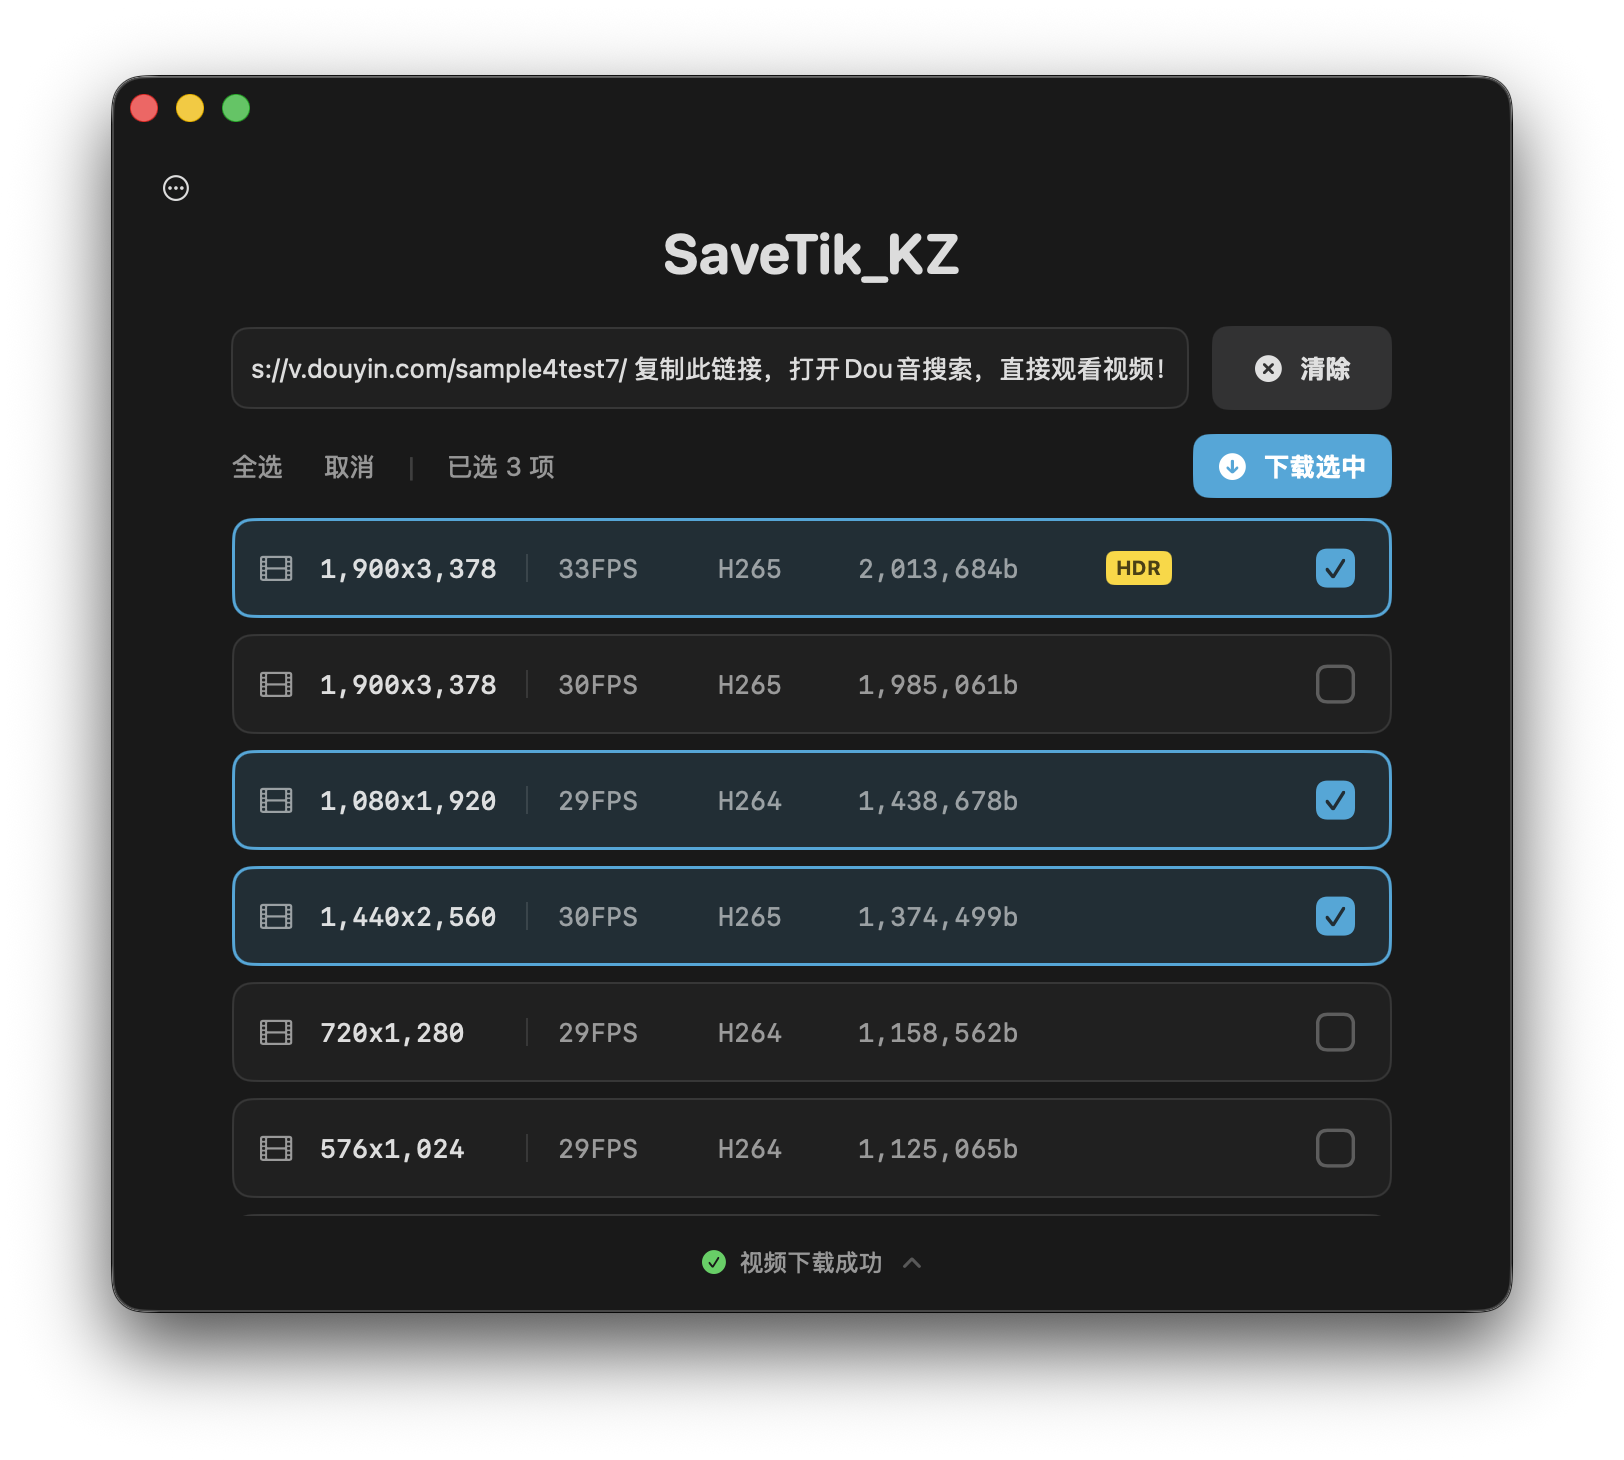
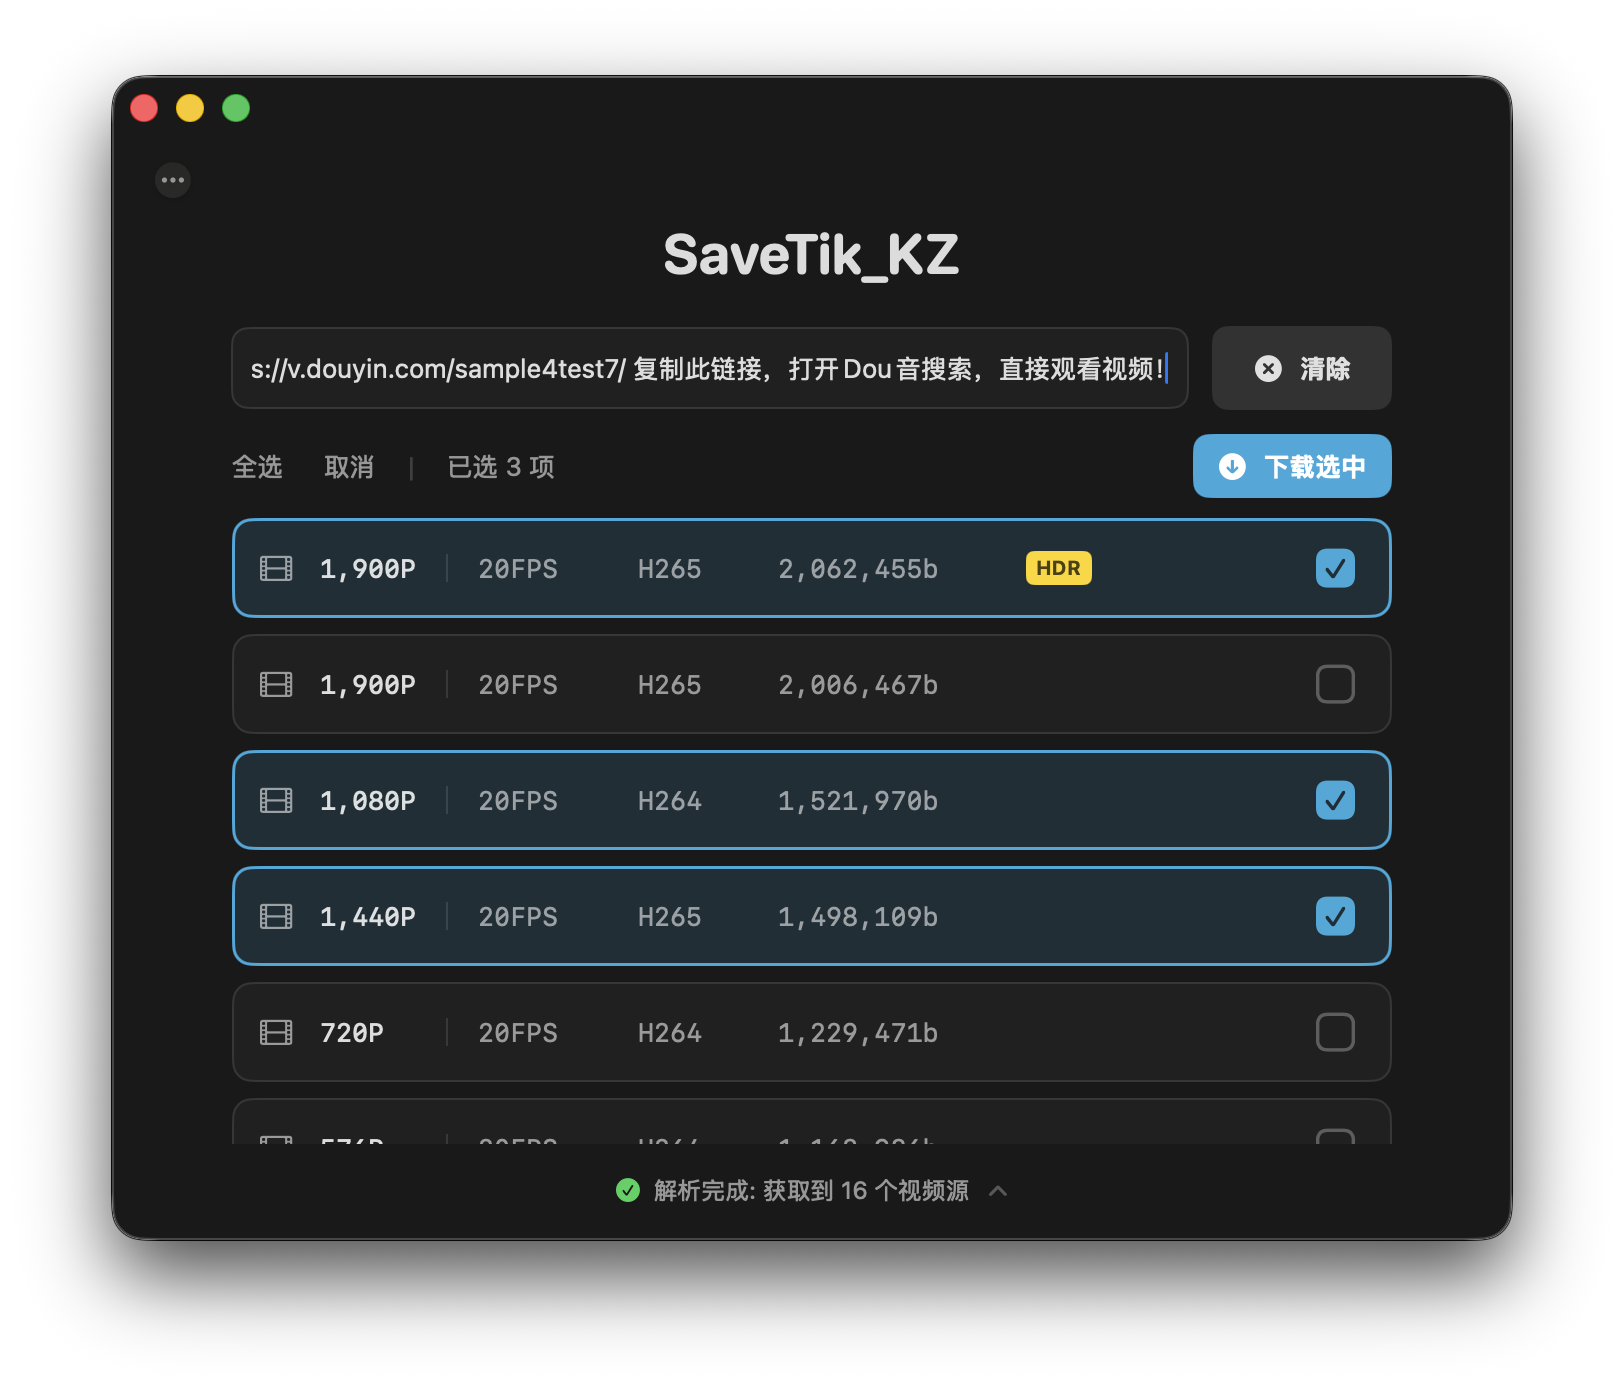
Update UI

diff --git a/SaveTikKZMac/SaveTikKZ/ContentView.swift b/SaveTikKZMac/SaveTikKZ/ContentView.swift
@@ -95,15 +95,41 @@ struct LogEntry: Identifiable {
     }
 }
 
+// 🔥 拦截原生获焦行为的自定义输入框
+class NonSelectingTextField: NSTextField {
+    private var hasAutoFocusedOnLaunch = false
+    
+    // 1. 解决刚启动时没焦点：监听窗口挂载事件，挂载成功后立刻抢占焦点
+    override func viewDidMoveToWindow() {
+        super.viewDidMoveToWindow()
+        if !hasAutoFocusedOnLaunch, self.window != nil {
+            hasAutoFocusedOnLaunch = true
+            DispatchQueue.main.async {
+                self.window?.makeFirstResponder(self)
+            }
+        }
+    }
+    
+    // 2. 解决闪烁和全选：直接在当前帧抹除全选状态
+    override func becomeFirstResponder() -> Bool {
+        let success = super.becomeFirstResponder()
+        if success, let editor = self.currentEditor() as? NSTextView {
+            let length = self.stringValue.count
+            editor.selectedRange = NSRange(location: length, length: 0)
+        }
+        return success
+    }
+}
+
 // NSViewRepresentable 包装原生 NSTextField
 struct FixedTextField: NSViewRepresentable {
     @Binding var text: String
     var placeholder: String
     var onSubmit: () -> Void
-    @FocusState.Binding var isFocused: Bool  // 🔥 新增：接收焦点状态
+    @Binding var requestFocus: Bool  // 🔥 弃用 @FocusState，改用普通 Binding 触发器
     
     func makeNSView(context: Context) -> NSTextField {
-        let textField = NSTextField()
+        let textField = NonSelectingTextField()
         textField.placeholderString = placeholder
         textField.isBordered = false
         textField.backgroundColor = .clear
@@ -111,26 +137,10 @@ struct FixedTextField: NSViewRepresentable {
         textField.delegate = context.coordinator
         textField.focusRingType = .none
         
-        // 设置为可滚动的单行模式
         if let cell = textField.cell as? NSTextFieldCell {
             cell.usesSingleLineMode = true
             cell.wraps = false
             cell.isScrollable = true
-        }
-        
-        // 🔥 监听获得焦点事件
-        NotificationCenter.default.addObserver(
-            forName: NSControl.textDidBeginEditingNotification,
-            object: textField,
-            queue: .main
-        ) { notification in
-            // 当获得焦点时，将光标移到末尾
-            DispatchQueue.main.async {
-                if let fieldEditor = textField.currentEditor() as? NSTextView {
-                    let length = fieldEditor.string.count
-                    fieldEditor.setSelectedRange(NSRange(location: length, length: 0))
-                }
-            }
         }
         
         return textField
@@ -139,6 +149,16 @@ struct FixedTextField: NSViewRepresentable {
     func updateNSView(_ nsView: NSTextField, context: Context) {
         if nsView.stringValue != text {
             nsView.stringValue = text
+        }
+        
+        // 🔥 单向触发：只要收到 true 请求，就强制聚焦，然后重置
+        if requestFocus {
+            DispatchQueue.main.async {
+                if nsView.window?.firstResponder != nsView.currentEditor() {
+                    nsView.window?.makeFirstResponder(nsView)
+                }
+                self.requestFocus = false // 消费掉请求，以备下次触发
+            }
         }
     }
     
@@ -166,6 +186,7 @@ struct FixedTextField: NSViewRepresentable {
             }
             return false
         }
+        // ⚠ 注意：Coordinator 里不要写监听焦点失去/获得的代码，切断 AppKit 反向干扰 SwiftUI
     }
 }
 
@@ -190,19 +211,18 @@ struct ContentView: View {
     @State private var statusIcon: String = "info.circle"     // 动态图标
     @State private var statusColor: Color = .secondary        // 动态颜色
     
-    // 
+    //
     @State private var logs: [LogEntry] = [] // 存储所有日志
     @State private var showLogPopover: Bool = false // 控制弹窗显示
     //
     @State private var isBackendOnline: Bool = false
     @State private var startupAttempts: Int = 0
     @State private var hasError: Bool = false
-    @FocusState private var isInputFocused: Bool
+//    @FocusState private var isInputFocused: Bool
+    @State private var requestFocus: Bool = false
     @State private var textFieldID = UUID()
     // --- 批量下载追踪 ---
     @State private var activeTasksCount: Int = 0      // 正在进行的任务数
-//    @State private var batchSuccessCount: Int = 0    // 成功计数
-//    @State private var batchErrorCount: Int = 0      // 失败计数
     @State private var batchTotal = 0        // 本次选中的总数
     @State private var batchSuccess = 0      // 已成功的数量
     @State private var batchError = 0        // 已失败的数量
@@ -247,14 +267,19 @@ struct ContentView: View {
                                             }
                                             .pickerStyle(.inline)
                                         } label: {
-                                            Image(systemName: "ellipsis.circle")
-                                                .font(.system(size: 24))
-                                                .foregroundColor(.secondary.opacity(0.6))
-                                                .contentShape(Rectangle())
+                                            // 🔥 直接对图标“点石成金”
+                                            Image(systemName: "ellipsis.circle.fill")
+                                                .font(.system(size: 18))
+                                                // 1. 开启分层渲染模式
+                                                .symbolRenderingMode(.palette)
+                                                // 2. 第一个参数管“三个点”的颜色，第二个参数直接把“液态玻璃”灌进“圆圈”里！
+                                                .foregroundStyle(Color.primary.opacity(0.6), .regularMaterial)
+                                                // 3. 加一点点立体阴影
+                                                .shadow(color: .black.opacity(0.15), radius: 2, x: 0, y: 1)
                                         }
-                                        .menuStyle(.borderlessButton)
                                         .menuIndicator(.hidden)
-                                        .frame(width: 24, height: 28)
+                                        // 扒掉系统默认的灰色方块按钮底板，只展示我们漂亮的图标
+                                        .buttonStyle(.plain)
                                         .help("切换外观模式")
                                         
                                         Spacer()
@@ -277,8 +302,9 @@ struct ContentView: View {
                         text: $urlInput,
                         placeholder: " 粘贴抖音视频分享链接... ",
                         onSubmit: handleFetchAction,
-                        isFocused: $isInputFocused  // 🔥 传入焦点状态
+                        requestFocus: $requestFocus
                     )
+                    .id(textFieldID)
                     .padding(.vertical, 12)
                     .padding(.horizontal, 10)
                     .background(AppTheme.cardColor(for: colorScheme))
@@ -437,7 +463,7 @@ struct ContentView: View {
                                 .padding(.vertical, 10)
                                 .frame(maxWidth: .infinity)
                                 .frame(height: 30)
-                                .background(Color.clear) 
+                                .background(Color.clear)
                                 .contentShape(Rectangle())
                                 .onTapGesture {
                                     showLogPopover.toggle()
@@ -489,6 +515,38 @@ struct ContentView: View {
                                 .foregroundColor(.secondary)
                                 .padding(.bottom, 10)
             }
+//            if let firstVideo = videoList.first {
+//                VStack {
+//                    Spacer() // 把内容推到底部
+//                    HStack {
+//                        Spacer() // 把内容推到右侧
+//
+//                        let isVertical = firstVideo.width < firstVideo.height
+//
+//                        // 仅保留横竖屏标签
+//                        Text(isVertical ? "竖屏" : "横屏")
+//                            .font(.system(size: 11, weight: .bold))
+//                            .foregroundColor(isVertical ? AppTheme.accentBlue : .secondary)
+//                            // 稍微增加一点内边距，让单身标签显得更饱满
+//                            .padding(.horizontal, 10)
+//                            .padding(.vertical, 5)
+//                            .background(AppTheme.cardColor(for: colorScheme)) // 防文字穿透底色
+//                            .background((isVertical ? AppTheme.accentBlue : Color.secondary).opacity(0.15)) // 叠加色
+//                            .cornerRadius(6)
+//                            .overlay(
+//                                RoundedRectangle(cornerRadius: 6)
+//                                    .strokeBorder(isVertical ? AppTheme.accentBlue.opacity(0.3) : AppTheme.borderColor(for: colorScheme), lineWidth: 1)
+//                            )
+//                            // 增加极其微弱的阴影，让孤立的标签更有悬浮感
+//                            .shadow(color: .black.opacity(0.08), radius: 4, x: 0, y: 2)
+//                            // 🔥 核心对齐：列表距右边是 60，这里设为 75，刚好往左缩一点，留出距离
+//                            .padding(.trailing, 75)
+//                            .padding(.bottom, 50) // 悬浮在底部状态栏上方
+//                            .transition(.opacity.combined(with: .move(edge: .bottom)))
+//                    }
+//                }
+//                .zIndex(2) // 强制漂浮在列表上方
+//            }
         }
         .frame(minWidth: 700, minHeight: 550)
         .onAppear {
@@ -548,10 +606,7 @@ struct ContentView: View {
             hasError = false
             textFieldID = UUID()  // 🔥 重置 ID，强制重建 TextField
             updateStatus("准备就绪", type: .info)
-            
-            DispatchQueue.main.asyncAfter(deadline: .now() + 0.15) {
-                isInputFocused = true
-            }
+            requestFocus = true
         } else {
             // 获取逻辑
             if urlInput.isEmpty {
@@ -853,10 +908,28 @@ struct VideoRow: View {
             .frame(width: 44)
             
             // 2. 分辨率
-            Text("\(video.width)x\(video.height)")
+            Text("\(min(video.width, video.height))P")
                 .font(.system(size: 13, weight: .medium, design: .monospaced))
                 .foregroundColor(.primary)
-                .frame(width: 100, alignment: .leading)
+                .frame(width: 60, alignment: .leading)
+//            HStack(spacing: 6) {
+//                // 取宽高中较小的值，并加上 "P" (例如 1080P)
+//                Text("\(min(video.width, video.height))P")
+//                    .font(.system(size: 13, weight: .bold, design: .monospaced))
+//                    .foregroundColor(.primary)
+//
+//                // 对比宽高判断横竖屏，并做成一个精致的小标签
+//                Text(video.width < video.height ? "竖屏" : "横屏")
+//                    .font(.system(size: 10, weight: .medium))
+//                    .foregroundColor(video.width < video.height ? AppTheme.accentBlue : .secondary)
+//                    .padding(.horizontal, 4)
+//                    .padding(.vertical, 2)
+//                    .background(
+//                        (video.width < video.height ? AppTheme.accentBlue : Color.secondary).opacity(0.15)
+//                    )
+//                    .cornerRadius(4)
+//            }
+//            .frame(width: 100, alignment: .leading)
             
             // 3. 分割线
             Rectangle()

diff --git a/utils/video_downloader.py b/utils/video_downloader.py
@@ -12,8 +12,14 @@ def download_video_stream(stream_info, metadata):
     create_time = metadata.get('create_time', 'unknown')
     
     # 提取流信息
-    height = stream_info.get('height', '0')
-    width = stream_info.get('width', '0')
+    height = stream_info.get('height', 0)
+    width = stream_info.get('width', 0)
+    try:
+        # 取长宽中较短的一边作为分辨率标识 (如 1080p)
+        res_p = min(int(height), int(width))
+    except (ValueError, TypeError):
+        res_p = height
+
     fps = stream_info.get('fps', '0')
     encoding = stream_info.get('encoding', 'H264')
     bit_rate = stream_info.get('bit_rate', '0')
@@ -30,8 +36,8 @@ def download_video_stream(stream_info, metadata):
     is_hdr = stream_info.get('HDR_bit') == "10" and stream_info.get('HDR_type') == "1"
     hdr_tag = "_HDR" if is_hdr else ""
 
-    # 构造文件名: {nickname}_{create_time}_{分辨率}p_{fps}fps_{编码格式}_{码率信息}{HDR}.mp4
-    raw_filename = f"{nickname}_{create_time}_{height}x{width}p_{fps}fps_{encoding}_{bit_rate}{hdr_tag}.mp4"
+    # 构造文件名: {nickname}_{create_time}_{短边}p_{fps}fps_{encoding}_{bit_rate}{hdr_tag}.mp4
+    raw_filename = f"{nickname}_{create_time}_{res_p}p_{fps}fps_{encoding}_{bit_rate}{hdr_tag}.mp4"
 
     safe_filename = re.sub(r'[<>:"/\\|?*]', '_', raw_filename)
     filename = safe_filename.strip()
